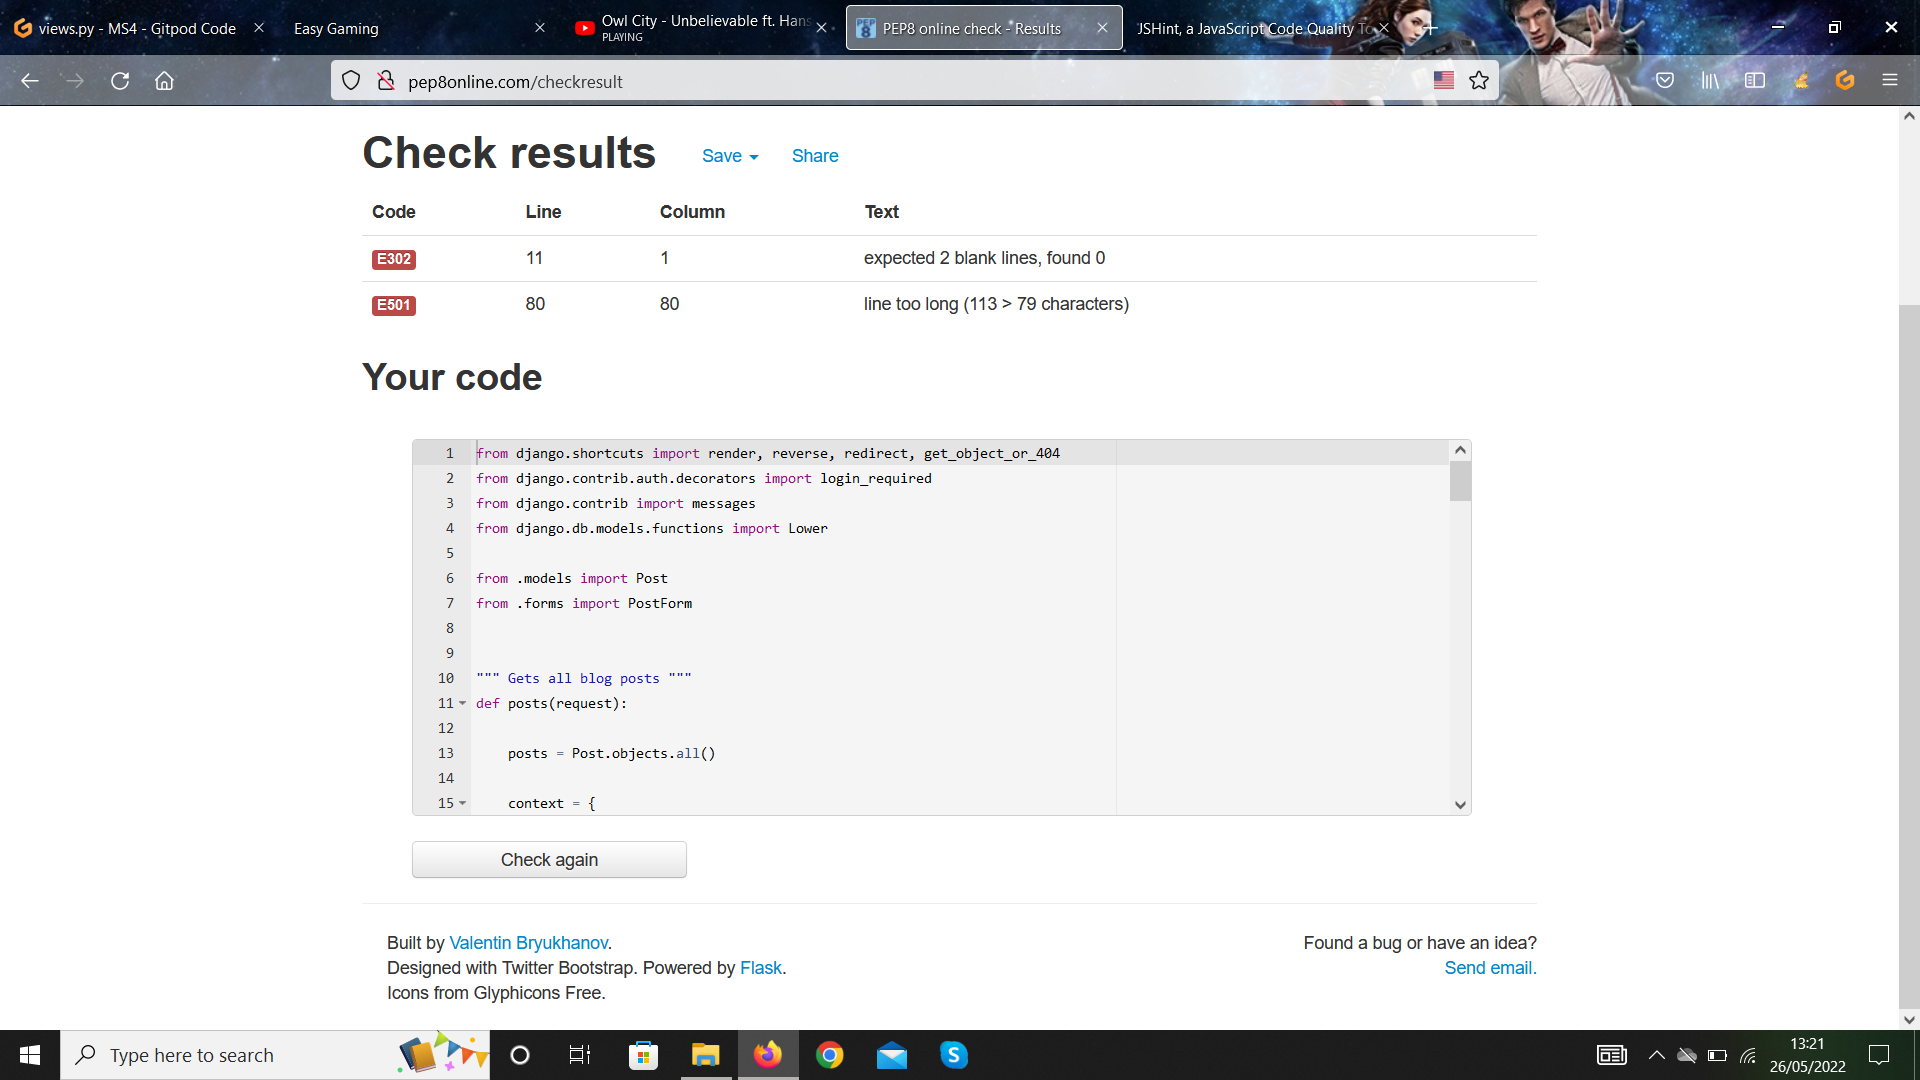
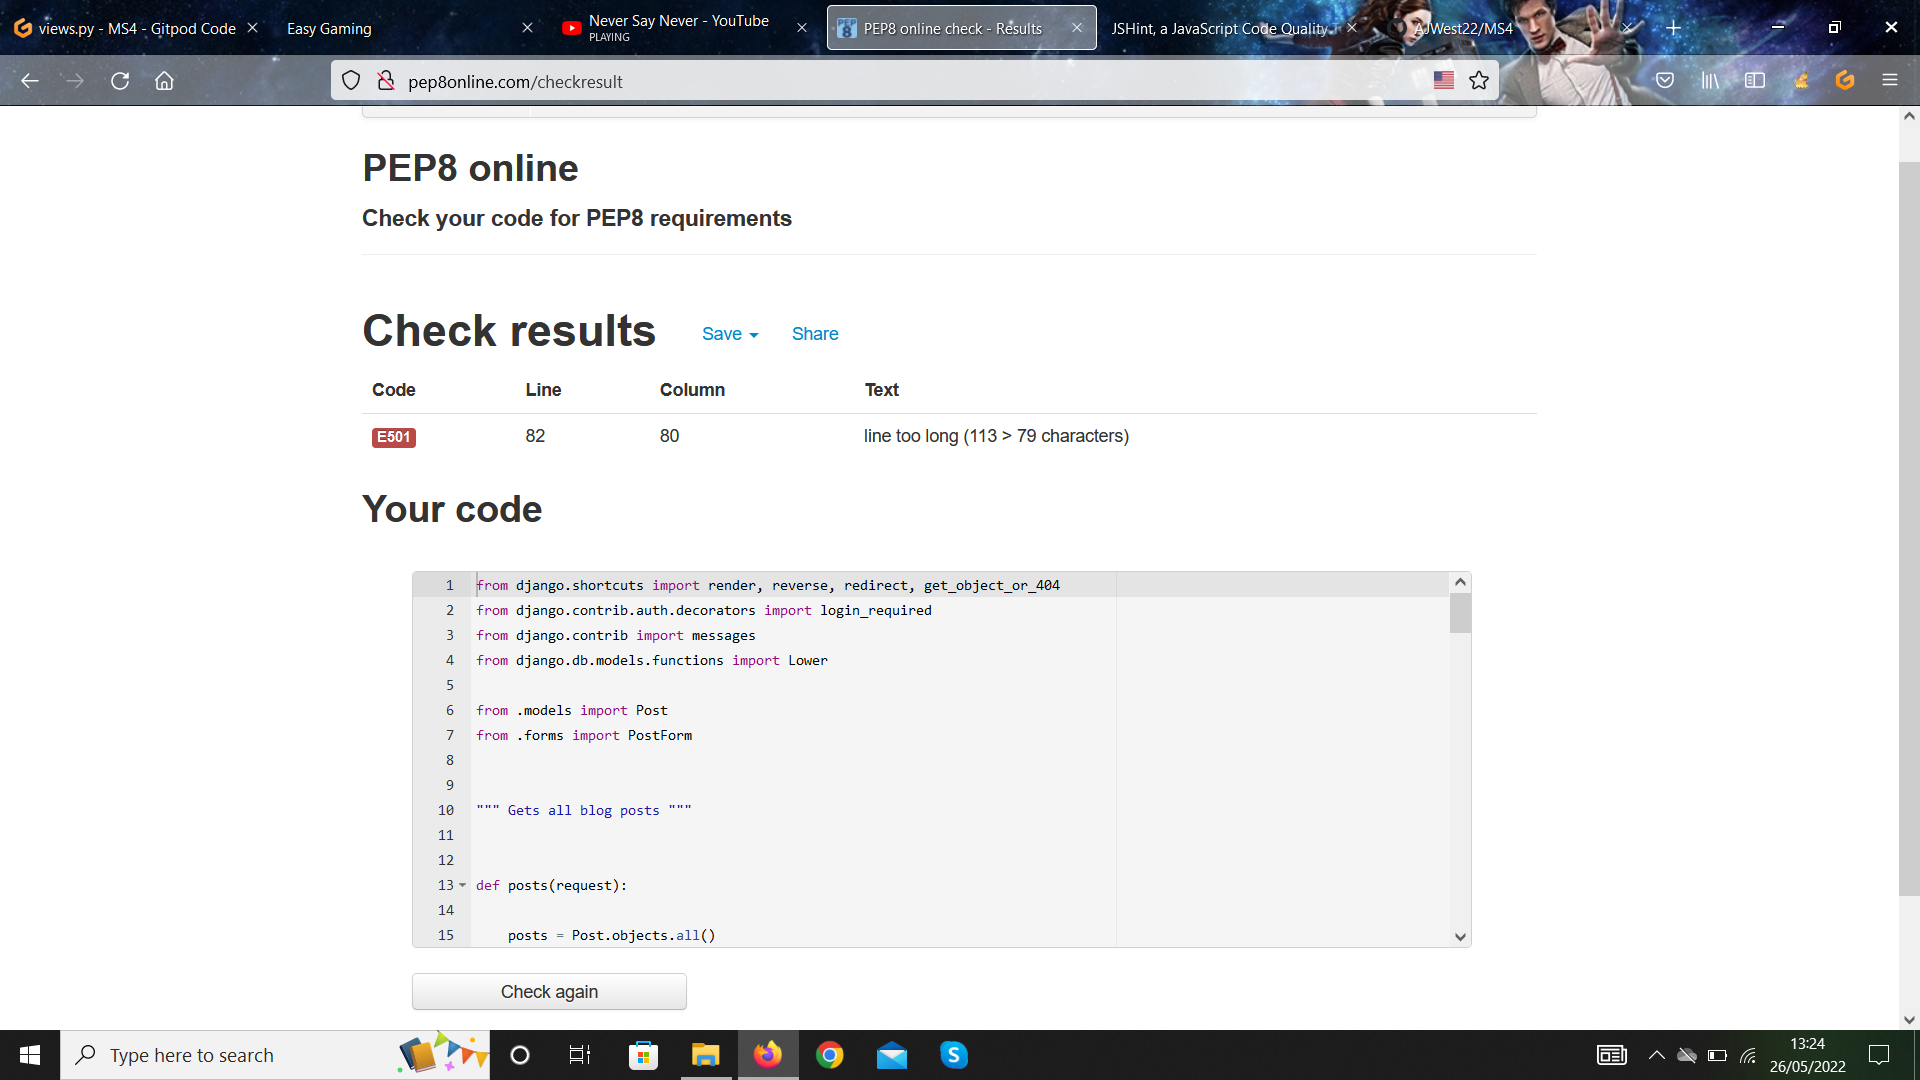
Update python testing section on README

diff --git a/checkout/webhook_handler.py b/checkout/webhook_handler.py
@@ -8,12 +8,13 @@ from products.models import Product
 import json
 import time
 
+
 class StripeWH_Handler:
     """Handles Stripe webhooks"""
 
     def __init__(self, request):
         self.request = request
-    
+
     def _send_confirmation_email(self, order):
         """Sends user a confirmation email"""
         cust_email = order.email
@@ -23,13 +24,13 @@ class StripeWH_Handler:
         body = render_to_string(
             'checkouts/confirmation_emails/confirmation_email_body.txt',
             {'order': order, 'contact_email': settings.DEFAULT_FROM_EMAIL})
-        
+
         send_mail(
             subject,
             body,
             settings.DEFAULT_FROM_EMAIL,
             [cust_email]
-        )        
+        )
 
     def handle_event(self, event):
         """
@@ -38,7 +39,7 @@ class StripeWH_Handler:
         return HttpResponse(
             content=f'Webhook received: {event["type"]}',
             status=200)
-        
+
     def handle_payment_intent_succeeded(self, event):
         """
         Handles the payment_intent.succeeded webhook from Stripe
@@ -144,7 +145,7 @@ class StripeWH_Handler:
         return HttpResponse(
             content=f'Webhook received: {event["type"]} | SUCCESS: Created order in webhook',
             status=200)
-    
+
     def handle_payment_intent_payment_failed(self, event):
         """
         Handles the payment_intent.payment_failed webhook from Stripe

diff --git a/checkout/views.py b/checkout/views.py
@@ -83,7 +83,7 @@ def checkout(request):
                     )
                     order.delete()
                     return redirect(reverse('view_basket'))
-                
+
             # saves data to users profile
             request.session['save_info'] = 'save-info' in request.POST
             return redirect(reverse('checkout_complete', args=[order.order_number]))
@@ -95,7 +95,7 @@ def checkout(request):
         if not basket:
             messages.error(request, "There's nothing in your basket at the moment")
             return redirect(reverse('products'))
-   
+
         current_basket = basket_contents(request)
         total = current_basket['grand_total']
         stripe_total = round(total * 100)
@@ -148,7 +148,7 @@ def checkout_complete(request, order_number):
     messages.success(request, f'Order successfully placed! \
         Your order number is {order_number}. A confirmation \
         email will be sent to {order.email}.')
-    
+
     if request.user.is_authenticated:
         profile = UserProfile.objects.get(user=request.user)
         # Attaches a user's profile to the order

diff --git a/checkout/models.py b/checkout/models.py
@@ -35,7 +35,7 @@ class Order(models.Model):
         Generates a unique order number using UUID
         """
         return uuid.uuid4().hex.upper()
-              
+
     def update_total(self):
         """
         Update grand total each time an item is added,

diff --git a/checkout/signals.py b/checkout/signals.py
@@ -10,7 +10,7 @@ def update_on_save(sender, instance, created, **kwargs):
     Update order's total on lineitem
     """
     instance.order.update_total()
-    
+
 
 @receiver(post_delete, sender=OrderLineItem)
 def update_on_delete(sender, instance, **kwargs):

diff --git a/checkout/admin.py b/checkout/admin.py
@@ -27,6 +27,6 @@ class OrderAdmin(admin.ModelAdmin):
                     'grand_total',)
 
     ordering = ('-date',)
-   
+
 
 admin.site.register(Order, OrderAdmin)

diff --git a/blog/views.py b/blog/views.py
@@ -8,6 +8,8 @@ from .forms import PostForm
 
 
 """ Gets all blog posts """
+
+
 def posts(request):
 
     posts = Post.objects.all()

diff --git a/checkout/webhooks.py b/checkout/webhooks.py
@@ -9,6 +9,7 @@ import stripe
 
 """Code from CI"""
 
+
 @require_POST
 @csrf_exempt
 def webhook(request):

diff --git a/README.md b/README.md
@@ -934,6 +934,39 @@ The Python code was tested using the online validator PEP8. As there are multipl
 
 
   **Checkout App**
+
+    <details><summary>The Checkout App admin.py file testing results. Click to expand image:</summary>
+          <img src="/media/checkout-admin.png">
+    </details>
+
+    <details><summary>The Checkout App apps.py file testing results. Click to expand image:</summary>
+          <img src="/media/checkout-apps.png">
+    </details>
+
+    <details><summary>The Checkout App forms.py file testing results. Click to expand image:</summary>
+          <img src="/media/checkout-forms.py.png">
+    </details>
+
+    <details><summary>The Checkout App models.py file testing results. Click to expand image:</summary>
+          <img src="/media/checkout-models.png">
+    </details>
+
+    <details><summary>The Checkout App signals.py file testing results. Click to expand image:</summary>
+          <img src="/media/checkout-signals.png">
+    </details>
+
+    <details><summary>The Checkout App views.py file testing results. Click to expand image:</summary>
+          <img src="/media/checkout-views.png">
+    </details>
+
+    <details><summary>The Checkout App webhookhandler.py file testing results. Click to expand image:</summary>
+          <img src="/media/checkout-webhokhandler.png">
+    </details>
+
+    <details><summary>The Checkout App webhooks.py file testing results. Click to expand image:</summary>
+          <img src="/media/checkout-webhooks.png">
+    </details>
+
 ### Browser Compatibility
 
 - This site has been tested on the following browsers and is fully functioning:
